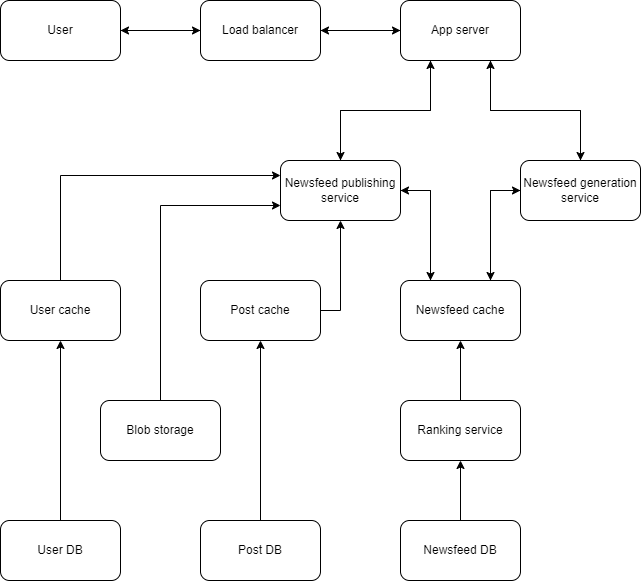
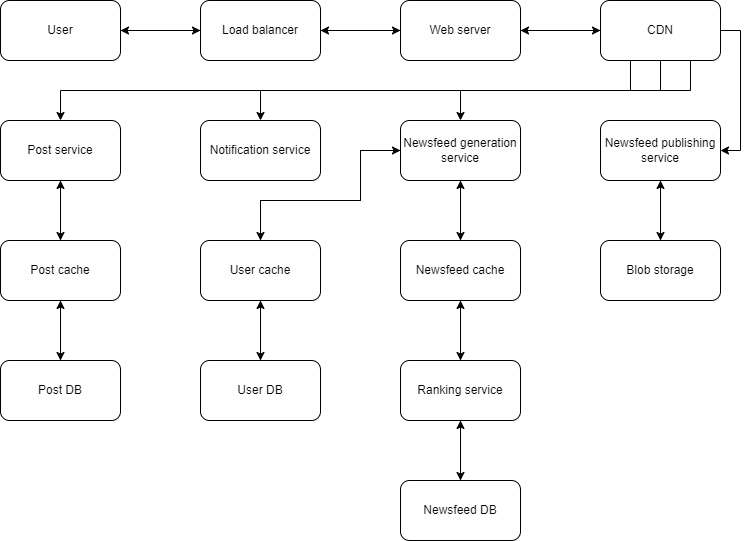
Update High level design notes

diff --git a/other/system-design.html b/other/system-design.html
@@ -1993,7 +1993,7 @@
 
     <h3 class="card-title">High level design</h3>
     <ul>
-      <li>Feed is generated via aggregating friends’ and followers’ posts.</li>
+      <li>Feed is generated via aggregating friends and followers posts.</li>
       <li>Feed is published and stored in cache and DB.</li>
     </ul>
     <img class="img-fluid" class="card-img-top" src="/img/system-design/newsfeed1.png" alt="Card image cap">
@@ -2061,6 +2061,9 @@
     </ul>
 
     <h3 class="card-title">Component design</h3>
+    <img class="img-fluid" class="card-img-top" src="/img/system-design/newsfeed2.png" alt="Card image cap">
+    <br>
+    <br>
 
     <h4 class="card-title">Newsfeed generation service</h4>
     <ul>
